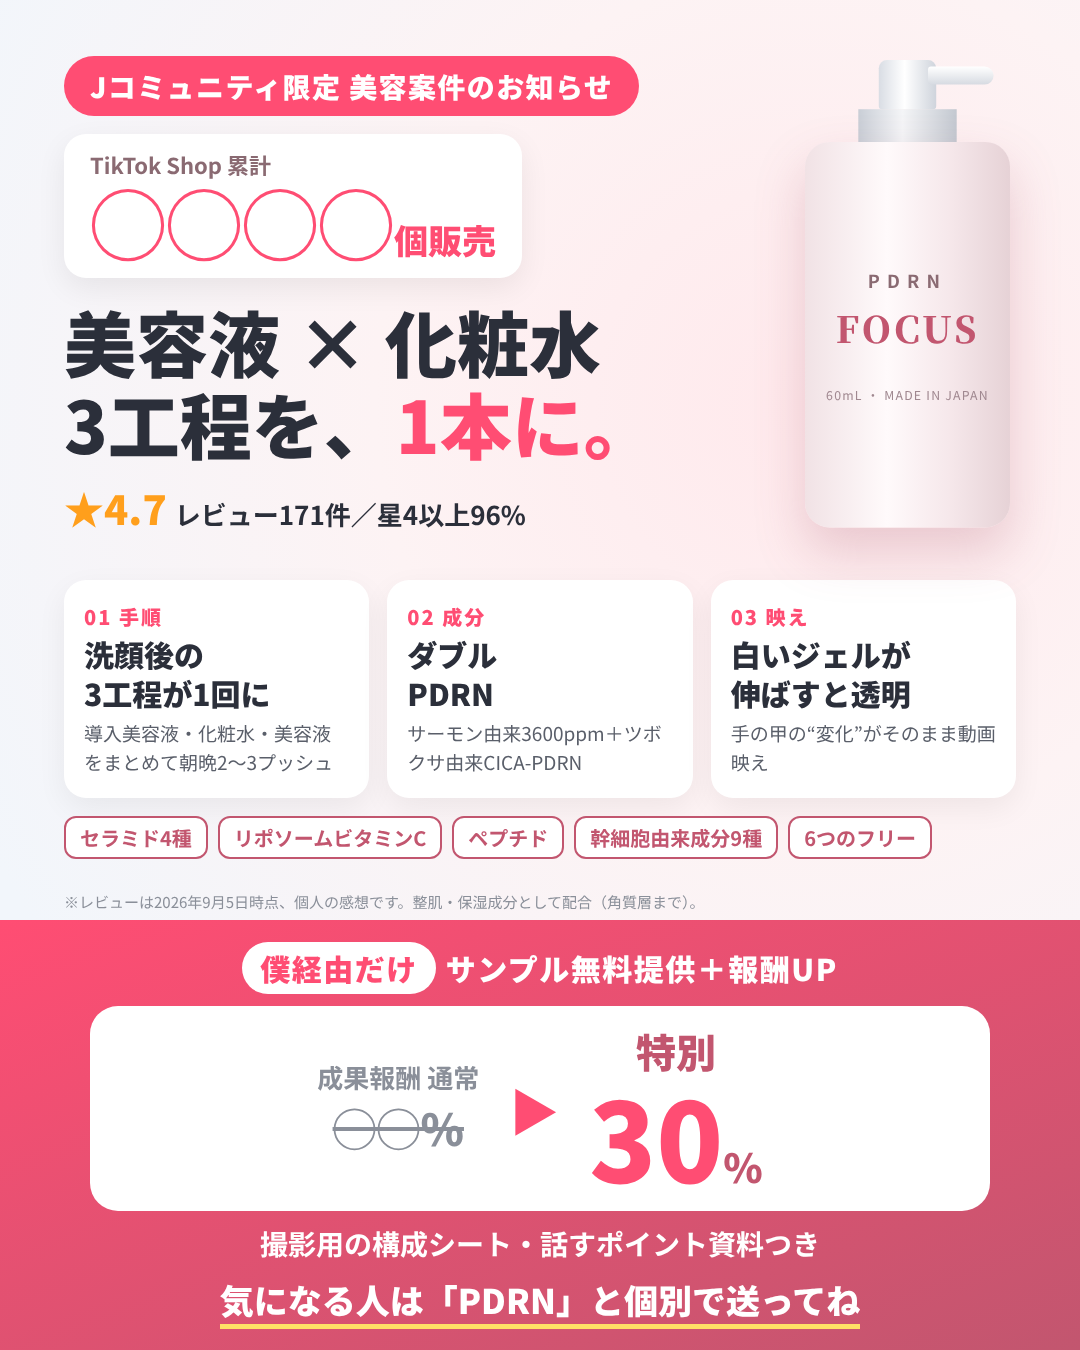
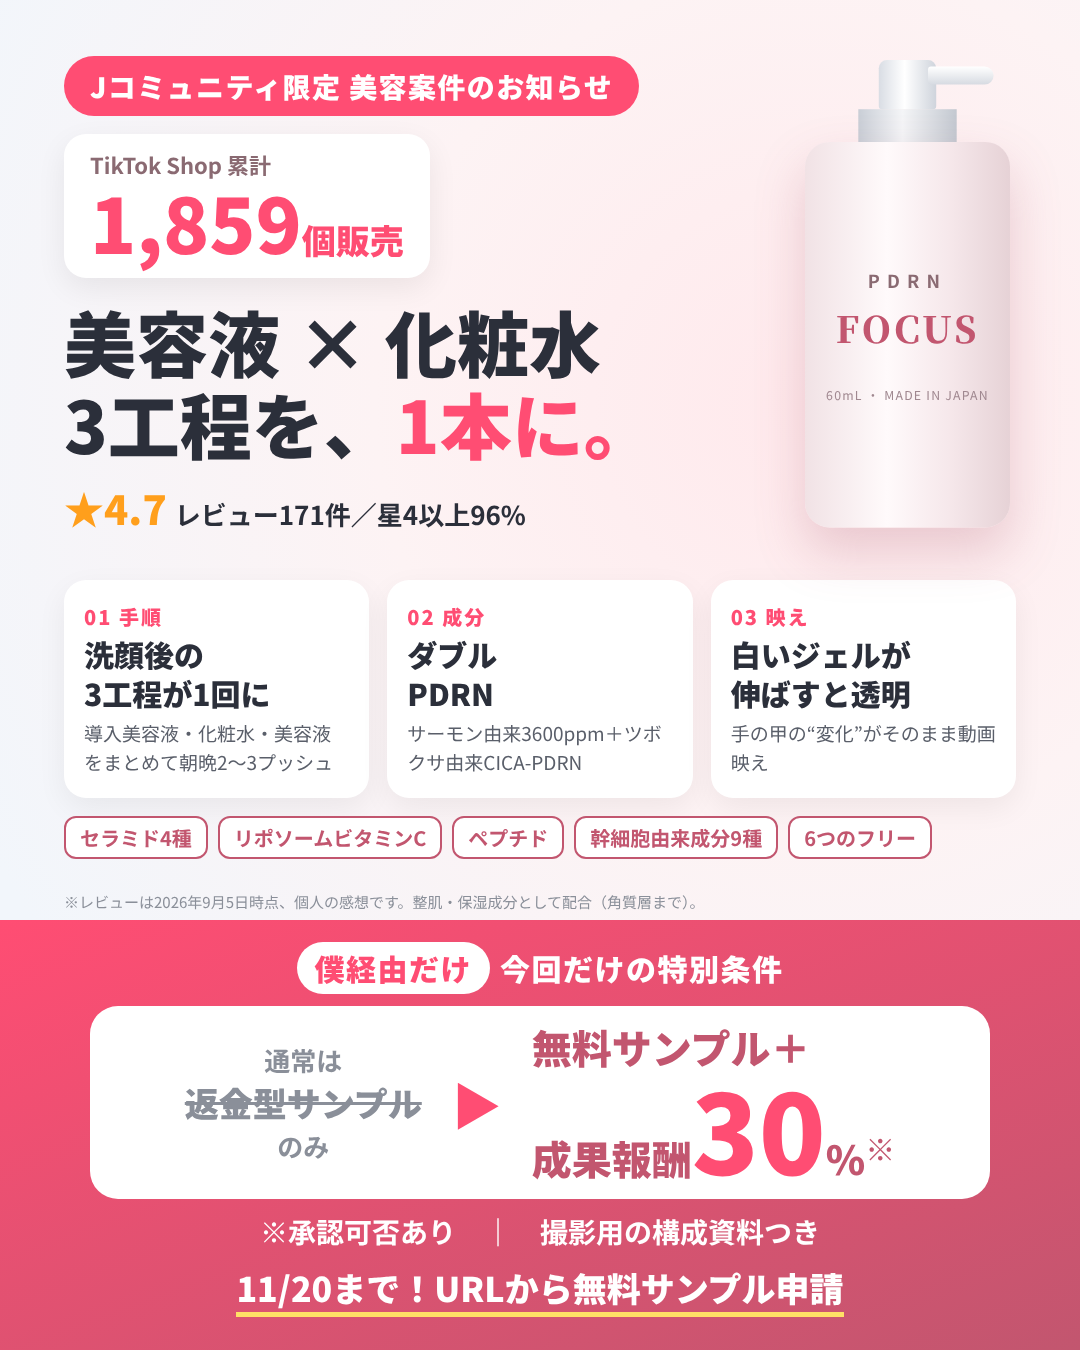
Fill in sales count, offer terms, deadline and sample URL
Claude-Session: https://claude.ai/code/session_01Kck6jh3QrkaFoStkSFuyN4

Changed region(s): [[0.0917, 0.6844, 0.9167, 0.9956], [0.0611, 0.1244, 0.4583, 0.2178]]

diff --git a/pdrn_focus_line/all_in_one.html b/pdrn_focus_line/all_in_one.html
@@ -3,7 +3,7 @@ body{height:1350px}
 .hero{position:relative;height:560px;padding:56px 64px 0}
 .tag{font-size:28px}
 h1{font-size:50px;font-weight:900;margin-top:24px;line-height:1.3}
-.sales{margin-top:18px;display:inline-block;background:#fff;border-radius:22px;padding:14px 26px;box-shadow:0 10px 30px rgba(0,0,0,.07)}
+.sales{margin-top:18px;display:block;width:fit-content;background:#fff;border-radius:22px;padding:14px 26px;box-shadow:0 10px 30px rgba(0,0,0,.07)}
 .sales .k{font-size:22px;font-weight:700;color:#8a6a72}
 .sales .v{font-size:76px;font-weight:900;color:#ff4d73;line-height:1.1}.sales .v small{font-size:34px}
 .big{font-size:72px;font-weight:900;line-height:1.15;margin-top:22px}.big em{font-style:normal;color:#ff4d73}
@@ -20,16 +20,16 @@ h1{font-size:50px;font-weight:900;margin-top:24px;line-height:1.3}
 .offer .h{font-size:30px;font-weight:900;letter-spacing:.05em}
 .offer .h span{background:#fff;color:#ff4d73;padding:4px 18px;border-radius:999px;margin-right:10px}
 .box{background:#fff;color:#2b2f3a;border-radius:28px;margin:16px auto 0;width:900px;padding:16px 20px;display:flex;align-items:center;justify-content:center;gap:30px}
-.box .from{font-size:26px;font-weight:700;color:#8a8f99}.box .from s{font-size:44px;font-weight:900}
+.box .from{font-size:26px;font-weight:700;color:#8a8f99}.box .from s{font-size:34px;font-weight:900}
 .box .arrow{font-size:50px;color:#ff4d73;font-weight:900}
-.box .to{font-size:40px;font-weight:900;color:#c2566f}.box .to b{font-size:110px;color:#ff4d73;line-height:1}
+.box .to{font-size:40px;font-weight:900;color:#c2566f}.box .to{text-align:left;line-height:1.25}.box .to sup{font-size:30px}.box .to b{font-size:110px;color:#ff4d73;line-height:1}
 .offer .s{font-size:28px;font-weight:700;margin-top:12px}
 .offer .cta{font-size:34px;font-weight:900;margin-top:12px}.offer .cta span{border-bottom:5px solid #ffe066}
 .note{position:absolute;bottom:438px;left:64px;font-size:15px;color:#8a8f99}
 </style></head><body>
 <div class="hero">
 <span class="tag">Jコミュニティ限定 美容案件のお知らせ</span>
-<div class="sales"><div class="k">TikTok Shop 累計</div><div class="v">◯◯◯◯<small>個販売</small></div></div>
+<div class="sales"><div class="k">TikTok Shop 累計</div><div class="v">1,859<small>個販売</small></div></div>
 <div class="big">美容液 × 化粧水<br>3工程を、<em>1本に。</em></div>
 <div class="stars"><b>★4.7</b>レビュー171件／星4以上96%</div>
 <div class="bottle" style="right:70px;top:60px"><div class="nozzle"></div><div class="pump"></div><div class="neck"></div><div class="body"><div class="b2">PDRN</div><div class="b1">FOCUS</div><div class="b3">60mL ・ MADE IN JAPAN</div></div></div>
@@ -42,9 +42,9 @@ h1{font-size:50px;font-weight:900;margin-top:24px;line-height:1.3}
 <div class="chips"><div>セラミド4種</div><div>リポソームビタミンC</div><div>ペプチド</div><div>幹細胞由来成分9種</div><div>6つのフリー</div></div>
 <div class="note">※レビューは2026年9月5日時点、個人の感想です。整肌・保湿成分として配合（角質層まで）。</div>
 <div class="offer">
-<div class="h"><span>僕経由だけ</span>サンプル無料提供＋報酬UP</div>
-<div class="box"><div class="from">成果報酬 通常<br><s>◯◯%</s></div><div class="arrow">▶</div><div class="to">特別<br><b>30</b>%</div></div>
-<div class="s">撮影用の構成シート・話すポイント資料つき</div>
-<div class="cta"><span>気になる人は「PDRN」と個別で送ってね</span></div>
+<div class="h"><span>僕経由だけ</span>今回だけの特別条件</div>
+<div class="box"><div class="from">通常は<br><s>返金型サンプル</s><br>のみ</div><div class="arrow">▶</div><div class="to">無料サンプル＋<br>成果報酬<b>30</b>%<sup>※</sup></div></div>
+<div class="s">※承認可否あり　｜　撮影用の構成資料つき</div>
+<div class="cta"><span>11/20まで！URLから無料サンプル申請</span></div>
 </div>
 </body></html>
